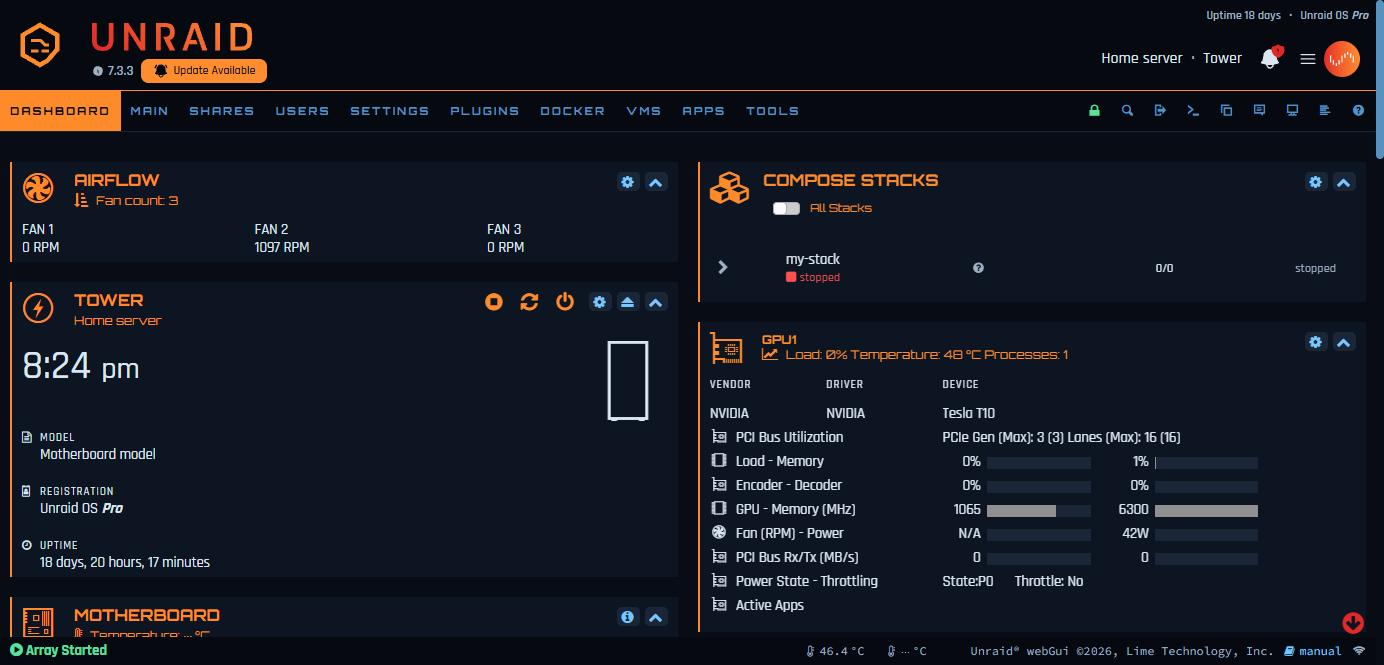
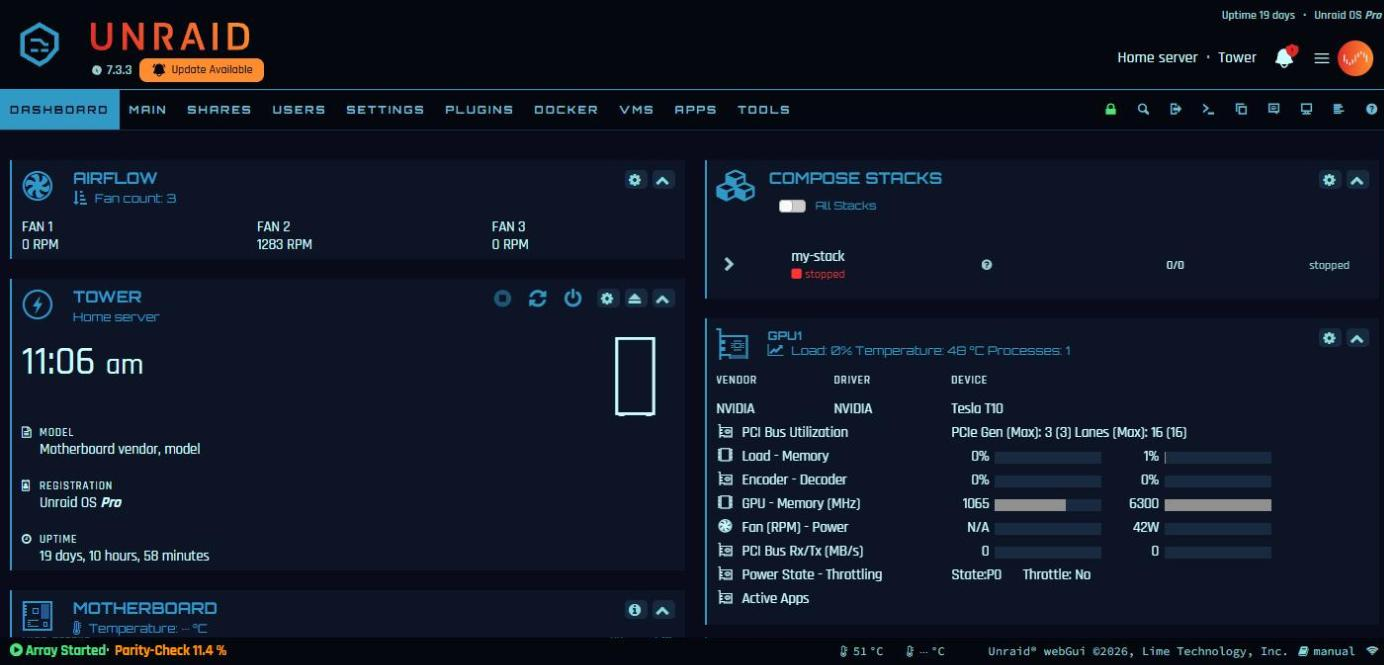
normandy: colours sampled from the Mass Effect 1 interface; v1.2.1
Title blue #3199C6, HUD teal #8CDBDC, label text #CCFFFF / #99CCCC,
renegade orange #FF9142, paragon green #50E280, red #FF3333 and the
main-menu indigo #090B1B, replacing the by-eye omni-tool orange set.
Contrast checked offline and live on Dashboard, Main and Plugins.
New scrubbed screenshot. Hex values only, no game asset.

diff --git a/palettes/normandy.css b/palettes/normandy.css
@@ -1,22 +1,22 @@
-/* normandy: omni-tool orange and holographic blue on navy-black, with an
- * N7 red for highlights. Inspired by the interface of the Mass Effect games
- * (galaxy map, codex, omni-tool); colours chosen by eye, no game asset is
- * included. */
+/* normandy: Mass Effect 1 interface colours. Title blue and HUD teal on the
+ * deep indigo of the main menu, renegade orange for highlights and paragon
+ * green for status. Hex values sampled from the game's UI (text styles and
+ * menu backdrop); no game asset is included. */
 :root {
-    --cp-pri: #FF8A2A;        /* headings, active tab, accents: omni-tool orange */
-    --cp-pri-dark: #A85414;
-    --cp-pri-faint: #3A1E0A;
-    --cp-sec: #79C7FF;        /* values, links, bars: holographic blue */
-    --cp-sec-dim: #5592C0;
-    --cp-hi: #FF5A52;         /* highlights: N7 red */
-    --cp-faint: #1A2638;      /* hairlines, bar tracks */
-    --cp-ok: #5CE0A0;
-    --cp-warn: #FFC857;
-    --cp-err: #FF4F4F;
-    --cp-bg: #080C14;         /* navy-black */
-    --cp-panel: #0E1522;
-    --cp-panel-alt: #131C2C;
-    --cp-deep: #060910;
-    --cp-txt: #DCE6F0;
-    --cp-txt-dim: #9FB0C2;
+    --cp-pri: #3199C6;        /* headings, active tab, accents: title blue */
+    --cp-pri-dark: #246997;
+    --cp-pri-faint: #0F2333;
+    --cp-sec: #8CDBDC;        /* values, links, bars: HUD teal */
+    --cp-sec-dim: #72BED3;
+    --cp-hi: #FF9142;         /* highlights: renegade orange */
+    --cp-faint: #172A40;      /* hairlines, bar tracks */
+    --cp-ok: #50E280;         /* paragon green */
+    --cp-warn: #FF9900;
+    --cp-err: #FF3333;
+    --cp-bg: #090B1B;         /* main menu indigo */
+    --cp-panel: #0D1426;
+    --cp-panel-alt: #111B30;
+    --cp-deep: #05070F;
+    --cp-txt: #CCFFFF;        /* primary label text */
+    --cp-txt-dim: #99CCCC;    /* standard body text */
 }

diff --git a/README.md b/README.md
@@ -13,9 +13,9 @@ A dark, neon webGUI theme for Unraid 7.x: near-black panels, angular cut corners
 | `phantom-liberty` | crimson `#FF3D55` on red-black | silver `#C8D8D8`, orange-red highlights |
 | `midnight` | cyan `#2FE6FF` on midnight blue | electric blue `#6FA8FF`, ice-white highlights |
 | `neon-night` | neon pink `#FF3FD2` on blue-black | neon cyan `#2EF2FF`, electric violet highlights |
-| `normandy` | omni-tool orange `#FF8A2A` on navy-black | holographic blue `#79C7FF`, N7 red highlights |
+| `normandy` | title blue `#3199C6` on deep indigo | HUD teal `#8CDBDC`, renegade orange highlights |
 
-Run one palette per server and you can tell your boxes apart at a glance. `edgerunner` and `lunar` are inspired by David and Lucy from *Cyberpunk: Edgerunners* (colours picked by eye); `phantom-liberty` takes its hues from the *Phantom Liberty* expansion's key art. `midnight` is an all-blue cyber look, `neon-night` a pink and cyan dual-neon one, and `normandy` is inspired by the interface of the *Mass Effect* games (colours picked by eye). Only hex values are used, no official asset.
+Run one palette per server and you can tell your boxes apart at a glance. `edgerunner` and `lunar` are inspired by David and Lucy from *Cyberpunk: Edgerunners* (colours picked by eye); `phantom-liberty` takes its hues from the *Phantom Liberty* expansion's key art. `midnight` is an all-blue cyber look, `neon-night` a pink and cyan dual-neon one, and `normandy` uses the interface colours of the original *Mass Effect* (hex values sampled from the game's menus and HUD). Only hex values are used, no official asset.
 
 ## Previews
 
@@ -69,8 +69,8 @@ From a shell on the server (Tools > Terminal, or SSH):
 ```bash
 # 1. Put the files on the flash drive
 mkdir -p /boot/config/cyberpunk-theme
-cd /tmp && curl -fsSL https://github.com/liekos47/unraid-cyberpunk-theme/archive/refs/tags/v1.2.0.tar.gz | tar xz
-cp -r /tmp/unraid-cyberpunk-theme-1.2.0/* /boot/config/cyberpunk-theme/
+cd /tmp && curl -fsSL https://github.com/liekos47/unraid-cyberpunk-theme/archive/refs/tags/v1.2.1.tar.gz | tar xz
+cp -r /tmp/unraid-cyberpunk-theme-1.2.1/* /boot/config/cyberpunk-theme/
 
 # 2. Optional: pick the palette (default netrunner)
 echo 'PALETTE=relic' > /boot/config/cyberpunk-theme/theme.cfg
